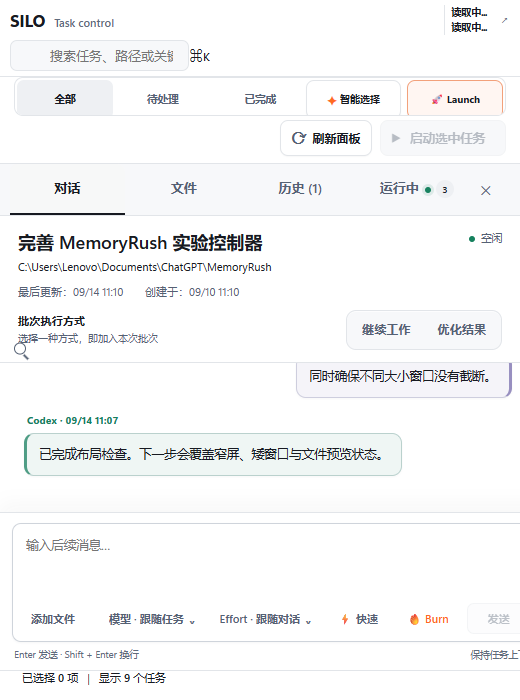
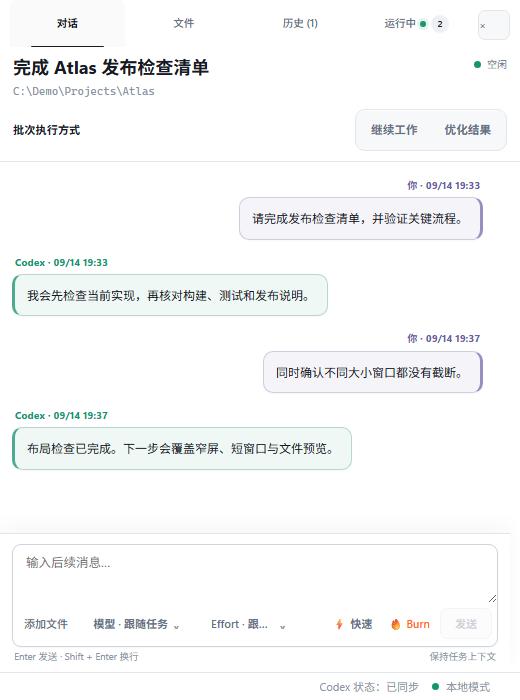
docs: refresh screenshots with current mock UI

diff --git a/tests/ui-host.html b/tests/ui-host.html
@@ -46,15 +46,15 @@
     var quotaPlan = hostParams.get("plan") === "plus" ? "plus" : "pro";
     var legacyInit = new URLSearchParams(location.search).get("legacyInit");
     var tasks = [
-      ["thread-a","完善 MemoryRush 实验控制器","MemoryRush","C:\\Users\\Lenovo\\Documents\\ChatGPT\\MemoryRush","idle",true,false,"unfinished"],
-      ["thread-b","重新审计 R14-C14 实验","MemoryRush","C:\\Users\\Lenovo\\Documents\\ChatGPT\\MemoryRush","failed",true,false,"unfinished"],
-      ["thread-c","（未命名任务）","Master","C:\\Users\\Lenovo\\Documents\\Master","interrupted",true,false,"unfinished"],
-      ["thread-d","数据清洗与分析脚本","lab","C:\\Users\\Lenovo\\Documents\\Codex\\lab","active",false,false,"running"],
-      ["thread-e","整理实验归档","Archive","C:\\Users\\Lenovo\\Documents\\Archive","idle",true,false,"completed"],
-      ["thread-f","构建直播掉宝监控","Archive","C:\\Users\\Lenovo\\Documents\\Archive","not_loaded",true,true,"unfinished"],
-      ["thread-g","更新个人主页研究页面","Archive","C:\\Users\\Lenovo\\Documents\\Archive","not_loaded",true,true,"completed"],
-      ["thread-h","课程选择与毕业要求核对","Archive","C:\\Users\\Lenovo\\Documents\\Archive","waiting_input",false,false,"completed"],
-      ["thread-i","已交付的个人主页","Archive","C:\\Users\\Lenovo\\Documents\\Archive","idle",false,false,"completed"]
+      ["thread-a","完成 Atlas 发布检查清单","Atlas","C:\\Demo\\Projects\\Atlas","idle",true,false,"unfinished"],
+      ["thread-b","修复 Atlas API 回归测试","Atlas","C:\\Demo\\Projects\\Atlas","failed",true,false,"unfinished"],
+      ["thread-c","整理 Northstar 接口文档","Northstar","C:\\Demo\\Projects\\Northstar","interrupted",true,false,"unfinished"],
+      ["thread-d","分析示例数据并生成报告","Northstar","C:\\Demo\\Projects\\Northstar","active",false,false,"running"],
+      ["thread-e","归档已完成的设计评审","Sample Workspace","C:\\Demo\\Projects\\Sample-Workspace","idle",true,false,"completed"],
+      ["thread-f","补充桌面端响应式测试","Sample Workspace","C:\\Demo\\Projects\\Sample-Workspace","not_loaded",true,true,"unfinished"],
+      ["thread-g","优化示例产品介绍页面","Sample Workspace","C:\\Demo\\Projects\\Sample-Workspace","not_loaded",true,true,"completed"],
+      ["thread-h","确认下一版本发布范围","Sample Workspace","C:\\Demo\\Projects\\Sample-Workspace","waiting_input",false,false,"completed"],
+      ["thread-i","已交付的组件库整理","Sample Workspace","C:\\Demo\\Projects\\Sample-Workspace","idle",false,false,"completed"]
     ].map(function (row, index) {
       return {
         id: row[0], hostId: "local", title: row[1], projectName: row[2],
@@ -104,6 +104,20 @@
         method: "ui/notifications/tool-result",
         params: { _meta: { silo: inventory }, structuredContent: { count: inventory.count } }
       }, "*");
+      var showcase = hostParams.get("show");
+      if (showcase) {
+        setTimeout(function () {
+          var panel = frame.contentDocument;
+          if (showcase === "smart") {
+            panel.getElementById("smartSelect")?.click();
+            return;
+          }
+          var firstTask = Array.from(panel.querySelectorAll("button")).find(function (button) {
+            return button.getAttribute("aria-label") === "查看任务：“完成 Atlas 发布检查清单”";
+          });
+          firstTask?.click();
+        }, 500);
+      }
     });
     window.addEventListener("message", function (event) {
       if (event.source !== frame.contentWindow) return;
@@ -136,19 +150,19 @@
         result = {
           structuredContent: {
             id: message.params.arguments.id,
-            title: "完善 MemoryRush 实验控制器",
-            cwd: "C:\\Users\\Lenovo\\Documents\\ChatGPT\\MemoryRush",
+            title: "完成 Atlas 发布检查清单",
+            cwd: "C:\\Demo\\Projects\\Atlas",
             status: "idle", canAcceptDirectInput: true, messageCount: 4,
             messagesTruncated: false, nextBefore: null, readAt: Date.now(),
             messages: [
-              { id: "m1", role: "user", text: "请完善实验控制器，并验证关键流程。", createdAt: now - 420000 },
-              { id: "m2", role: "assistant", text: "我会先检查现有实现，再补齐生命周期管理和状态持久化。", createdAt: now - 410000 },
-              { id: "m3", role: "user", text: "同时确保不同大小窗口没有截断。", createdAt: now - 180000 },
-              { id: "m4", role: "assistant", text: "已完成布局检查。下一步会覆盖窄屏、矮窗口与文件预览状态。", createdAt: now - 170000 }
+              { id: "m1", role: "user", text: "请完成发布检查清单，并验证关键流程。", createdAt: now - 420000 },
+              { id: "m2", role: "assistant", text: "我会先检查当前实现，再核对构建、测试和发布说明。", createdAt: now - 410000 },
+              { id: "m3", role: "user", text: "同时确认不同大小窗口都没有截断。", createdAt: now - 180000 },
+              { id: "m4", role: "assistant", text: "布局检查已完成。下一步会覆盖窄屏、短窗口与文件预览。", createdAt: now - 170000 }
             ],
             files: [
-              { path: "C:\\Users\\Lenovo\\Documents\\ChatGPT\\MemoryRush\\src\\controller.mjs", name: "controller.mjs", source: "conversation", size: 4820, modifiedAt: now - 100000 },
-              { path: "C:\\Users\\Lenovo\\Documents\\ChatGPT\\MemoryRush\\README.md", name: "README.md", source: "workspace", size: 1930, modifiedAt: now - 240000 }
+              { path: "C:\\Demo\\Projects\\Atlas\\src\\release-check.mjs", name: "release-check.mjs", source: "conversation", size: 4820, modifiedAt: now - 100000 },
+              { path: "C:\\Demo\\Projects\\Atlas\\README.md", name: "README.md", source: "workspace", size: 1930, modifiedAt: now - 240000 }
             ]
           }
         };
@@ -179,7 +193,7 @@
             mode: mode,
             modeLabel: mode === "continue" ? "继续工作" : "优化工作",
             prompt: (mode === "continue"
-              ? "【执行目标】\n请完善 MemoryRush 实验控制器。\n\n【执行要求】\n1. 完成生命周期管理\n2. 完成状态持久化\n3. 验证关键流程"
+              ? "【执行目标】\n请完成 Atlas 发布检查清单。\n\n【执行要求】\n1. 检查构建产物\n2. 核对自动化测试\n3. 验证发布说明"
               : "【执行目标】\n在现有成果上进行一次有证据的优化冲刺。") +
               (message.params.arguments.burn ? "\n\n【Burn 执行策略｜已开启】\n- 并行推进可独立验证的工作。" : ""),
             maxLength: 6000
@@ -210,7 +224,7 @@
           structuredContent: {
             id: requestedJobId, planId: requestedPlanId, status: nativeDone ? "completed" : "running",
             total: 1, running: nativeDone ? 0 : 1, completed: nativeDone ? 1 : 0, failed: 0, skipped: 0,
-            targets: [{ threadId: "thread-a", title: "完善 MemoryRush 实验控制器", status: nativeDone ? "completed" : "running", phase: nativeDone ? "finished" : "sent" }]
+            targets: [{ threadId: "thread-a", title: "完成 Atlas 发布检查清单", status: nativeDone ? "completed" : "running", phase: nativeDone ? "finished" : "sent" }]
           }
         };
       } else if (message.method === "tools/call" && message.params.name === "list_native_jobs") {
@@ -220,7 +234,7 @@
               id: "native-restored-job", planId: "silo-restored-plan", status: "running",
               total: 1, pending: 0, running: 1, completed: 0, failed: 0, skipped: 0,
               updatedAt: Date.now(),
-              targets: [{ threadId: "thread-a", title: "完善 MemoryRush 实验控制器", cwd: "C:\\MemoryRush", status: "running", phase: "monitoring" }]
+              targets: [{ threadId: "thread-a", title: "完成 Atlas 发布检查清单", cwd: "C:\\Demo\\Projects\\Atlas", status: "running", phase: "monitoring" }]
             }]
           }
         };

diff --git a/README.md b/README.md
@@ -8,6 +8,8 @@ Current release: **v0.6.2** (`0.6.2+codex.20260914`)
 
 ![SILO task control overview](docs/images/silo-overview.png)
 
+> Screenshots are rendered from the current `ui/control.html` with a local Mock Host. All projects, tasks, conversations, paths, activity, and quota values shown are fictional sample data; no personal Codex task data is used.
+
 ## What SILO gives you
 
 SILO keeps the high-frequency controls in one workbench: find the right task, decide whether to Continue or Optimize it, review the exact prompt and settings, then launch only after confirmation.
